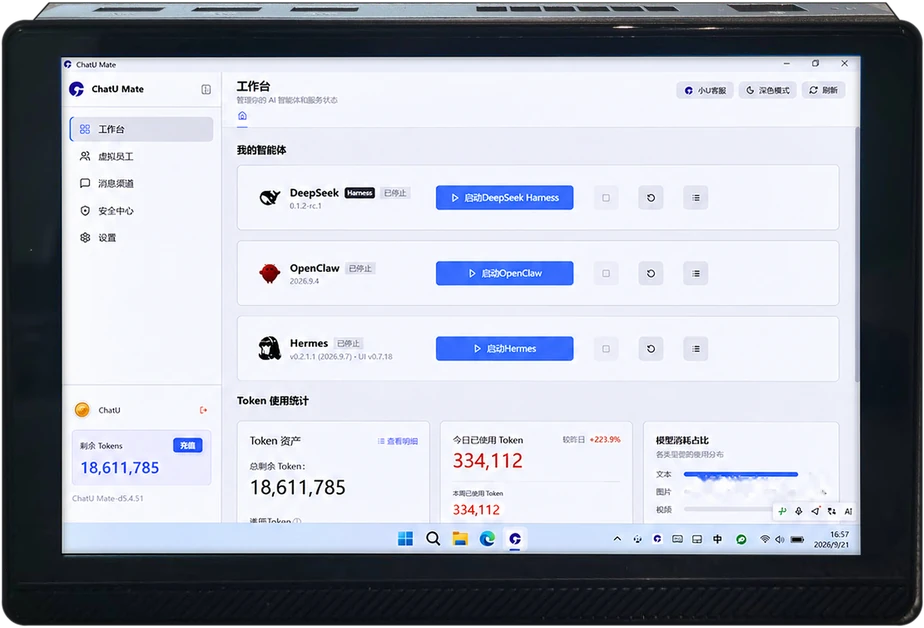
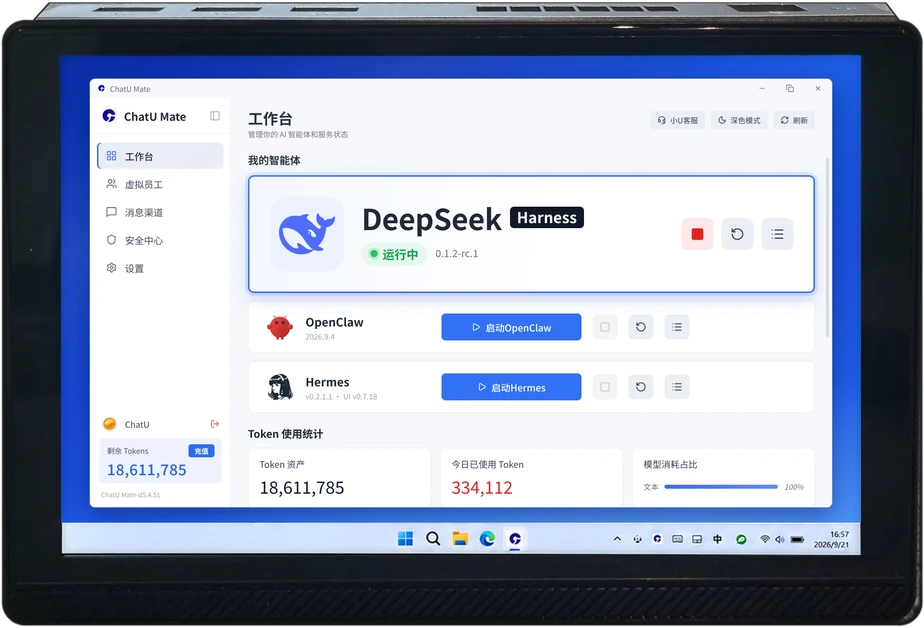
智方体横幅：屏幕按真机改成桌面上开着的 ChatU Mate 窗口，DeepSeek Harness 放大突出
- 原来工作台铺满整块屏幕、白色一直到边框，看起来屏幕比真机大；现在和真机照片一样，
  蓝色桌面上开着 ChatU Mate 窗口，底部是任务栏
- 工作台里 DeepSeek Harness 卡片放大、蓝框、显示「运行中」，OpenClaw / Hermes 缩小放在下面
- 屏幕加一层很淡的玻璃反光；开机后 DeepSeek Harness 卡片外圈亮两下

Claude-Session: https://claude.ai/code/session_01Me9z13vKbVMuoCXUhTVz8n

diff --git a/src/components/HeroZftArt.vue b/src/components/HeroZftArt.vue
@@ -9,11 +9,12 @@ import hermesUrl from '@/assets/hero/zft/hermes.webp'
 
 /**
  * 首页第三张横幅：智方体（AgentStation）产品照。
- * 包装盒、设备都是实拍照片抠图（包装盒取自实拍视频，设备取自真机照片、屏幕换成 ChatU Mate 工作台），
+ * 包装盒、设备都是实拍照片抠图（包装盒取自实拍视频，设备取自真机照片）。
+ * 屏幕和真机一样是 Windows 桌面上开着 ChatU Mate 窗口（不是全屏），工作台里 DeepSeek Harness 放大、运行中；
  * 不做任何违反物理的动作，只有真实拍摄里会有的变化，看起来才真：
  *   镜头推近：画面从稍大、稍偏右慢慢推到位，近处的设备比远处的包装盒移动得多（视差）；
  *   反光：一道光从包装盒表面扫过；
- *   开机：设备黑屏（带玻璃反光）→ 背光亮起 → 工作台；
+ *   开机：设备黑屏（带玻璃反光）→ 背光亮起 → 工作台，DeepSeek Harness 卡片亮两下；
  *   之后 OpenClaw 龙虾探头，OpenClaw / Hermes「已就绪」，「数据不出盒」。
  * 位置用原图坐标（3392 × 1120，与第一张横幅同比例）按百分比摆放；尺寸用 cqw（横幅宽度的 1%）。
  * 静止画面（未播放、减少动态效果）就是动画结束时的样子。
@@ -92,6 +93,8 @@ onMounted(async () => {
           <div class="zft-device absolute" :style="box(DEVICE)">
             <img :src="deviceUrl" alt="" class="w-full h-full" draggable="false" />
             <!-- 设备图 924 × 628 中屏幕在 61,56 – 861,556 -->
+            <!-- 屏幕上 DeepSeek Harness 卡片的位置（设备图坐标 248,176 – 815,294） -->
+            <span class="zft-ds-ring" />
             <span class="zft-screen-off" />
             <span class="zft-screen-glow" />
           </div>
@@ -194,6 +197,21 @@ onMounted(async () => {
   background: radial-gradient(ellipse at 50% 50%, rgba(150, 195, 255, 0.95), rgba(70, 120, 235, 0.8) 60%, rgba(25, 55, 150, 0.75));
 }
 
+/* 开机后 DeepSeek Harness 卡片外圈亮两下 */
+.zft-ds-ring {
+  position: absolute;
+  left: 26.84%;
+  top: 27.95%;
+  width: 61.36%;
+  height: 18.79%;
+  border-radius: 0.2cqw;
+  box-shadow:
+    0 0 0 0.1cqw rgba(var(--blue), 0.9),
+    0 0 0.8cqw 0.15cqw rgba(var(--blue), 0.55);
+  pointer-events: none;
+  opacity: 0;
+}
+
 /* ---------- 封盖标签 ---------- */
 .zft-seal {
   position: absolute;
@@ -284,7 +302,7 @@ onMounted(async () => {
 
 /* ============ 动画 ============
  * 时间线（秒）：0～1.4 镜头推近（近处设备比远处盒子多移一点）→ 0.7 盒子表面扫过反光
- * → 1.2 屏幕开机，1.75 工作台完全亮起 → 1.8 龙虾探头 → 1.9 卡片 → 2.2「数据不出盒」。 */
+ * → 1.2 屏幕开机，1.75 工作台完全亮起 → 1.8 龙虾探头、DeepSeek Harness 卡片亮两下 → 1.9 卡片 → 2.2「数据不出盒」。 */
 .is-waiting .zft-stage {
   opacity: 0;
 }
@@ -364,6 +382,23 @@ onMounted(async () => {
   }
   100% {
     opacity: 0;
+  }
+}
+
+.is-playing .zft-ds-ring {
+  animation: zft-ds-ring 1s ease-out 1.8s 2 both;
+}
+@keyframes zft-ds-ring {
+  0% {
+    opacity: 0;
+    transform: none;
+  }
+  25% {
+    opacity: 1;
+  }
+  100% {
+    opacity: 0;
+    transform: scale(1.05, 1.16);
   }
 }
 
